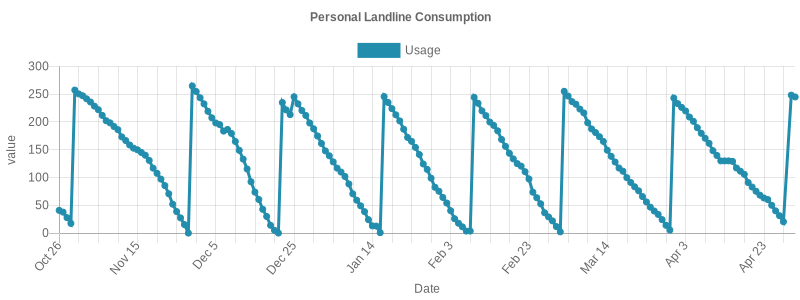
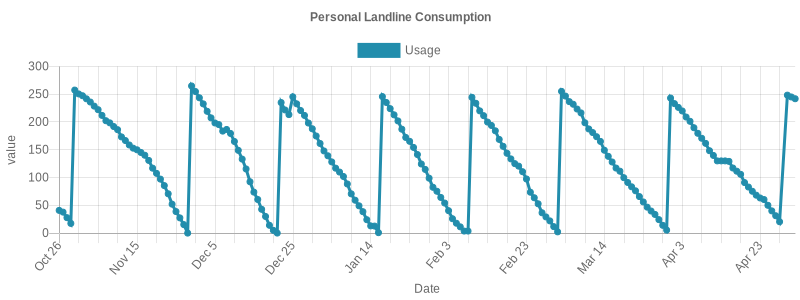
update logs

diff --git a/quota-logs/README.md b/quota-logs/README.md
@@ -186,3 +186,4 @@
 ## Sun Apr 28 2024 00:34:57 GMT+0200|20.44/250
 ## Tue Apr 30 2024 00:34:44 GMT+0200|248.28/260
 ## Wed May 01 2024 00:34:47 GMT+0200|245/260
+## Thu May 02 2024 00:37:06 GMT+0200|241.8/250
